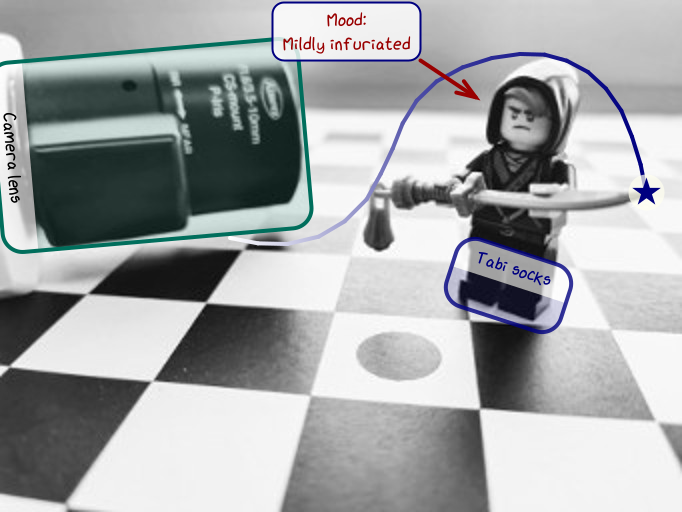
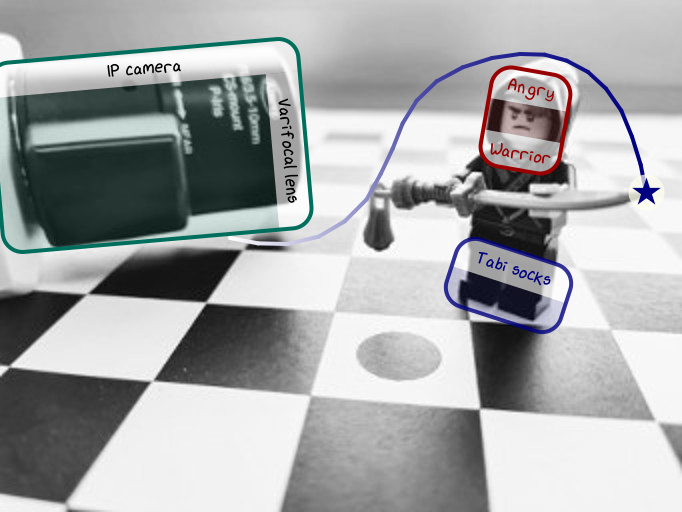
finish 2d bounding box refactoring

Changed region(s): [[0.0, 0.0, 0.8622, 0.5]]

diff --git a/examples/rtd-examples-python/rtd_demo_images/tracking_by_detection.py b/examples/rtd-examples-python/rtd_demo_images/tracking_by_detection.py
@@ -21,7 +21,17 @@ def demo_tracking_by_detection():
     # Draw the bounding box containing the Tabi
     rect_tabi = viren2d.Rect(
         center=(508, 285), size=(120, 70), rotation=18, radius=20)
-    painter.draw_bounding_box_2d(rect_tabi, bbox_style, label_top=['Tabi socks'])
+    painter.draw_bounding_box_2d(
+        rect_tabi, bbox_style, label_top=['Tabi socks'])
+
+    # Draw the bounding box around the face
+    bbox_style.line_style.color = 'crimson'
+    bbox_style.text_style.color = 'crimson'
+    rect_face = viren2d.Rect(
+        center=(525, 120), size=(80, 100), rotation=10, radius=20)
+    painter.draw_bounding_box_2d(
+        rect_face, bbox_style, label_top=['Angry'], label_bottom=['Warrior'])
+
 
     # Draw the bounding box containing the lens
     bbox_style.line_style.color = 'teal-green'
@@ -51,19 +61,5 @@ def demo_tracking_by_detection():
         marker='5', size=30, filled=True, color=line_style.color,
         bg_border=3, bg_color='ivory!70')
     painter.draw_marker(traj_sword[0], marker_style)
-
-    # Arrow
-    arrow_style = viren2d.ArrowStyle(width=4, color='crimson', tip_length=0.3)
-    painter.draw_arrow((400, 75), (480, 100), arrow_style)
-
-    # Text box
-    text_style.line_spacing = 1.0
-    text_style.color = 'crimson'
-    line_style.width = 2
-    painter.draw_text_box(
-        ['Mood:', 'Mildly infuriated'], position=(460, 65),
-        anchor=viren2d.Anchor.BottomRight,
-        text_style=text_style, padding=(10, 5),
-        fill_color="white!80", line_style=line_style)
 
     return np.array(painter.canvas, copy=True)

diff --git a/docs/source/tutorial/draw-tracking-by-detection.rst b/docs/source/tutorial/draw-tracking-by-detection.rst
@@ -13,11 +13,12 @@ Tracking-by-detection results can be visualized via
    :alt: Tracking-by-Detection Example
    :align: center
 
+
 This visualization has been created with the following Python code:
 
 .. literalinclude:: ../../../examples/rtd-examples-python/rtd_demo_images/tracking_by_detection.py
    :language: python
-   :lines: 8-66
-   :emphasize-lines: 10-12, 24-25, 36-39
+   :lines: 8-63
+   :emphasize-lines: 10-12, 17-18, 47-50
    :linenos:
    :dedent: 4
